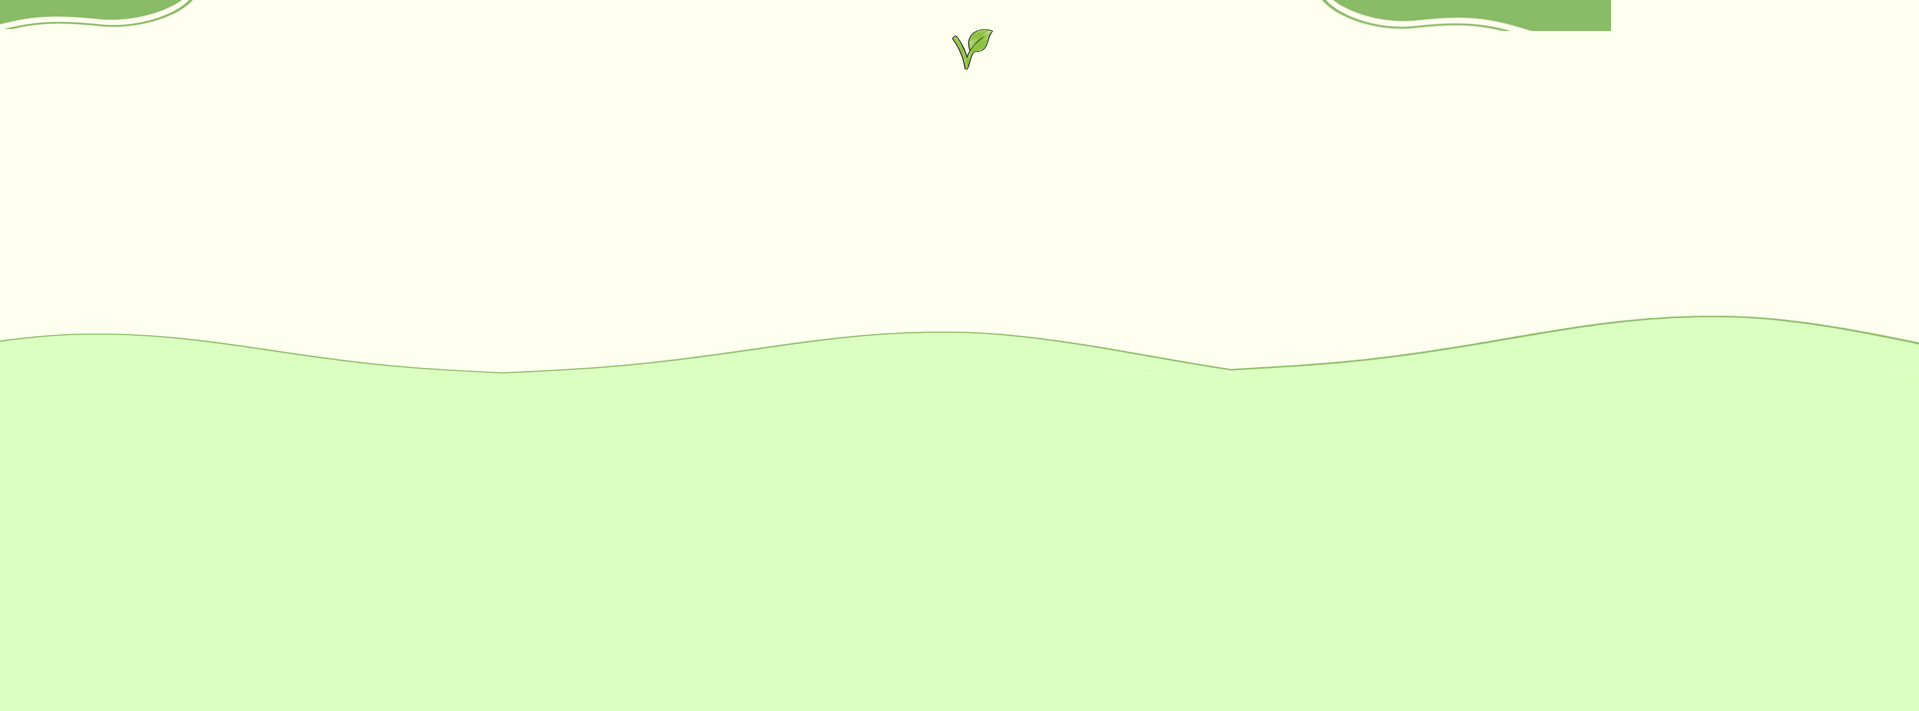
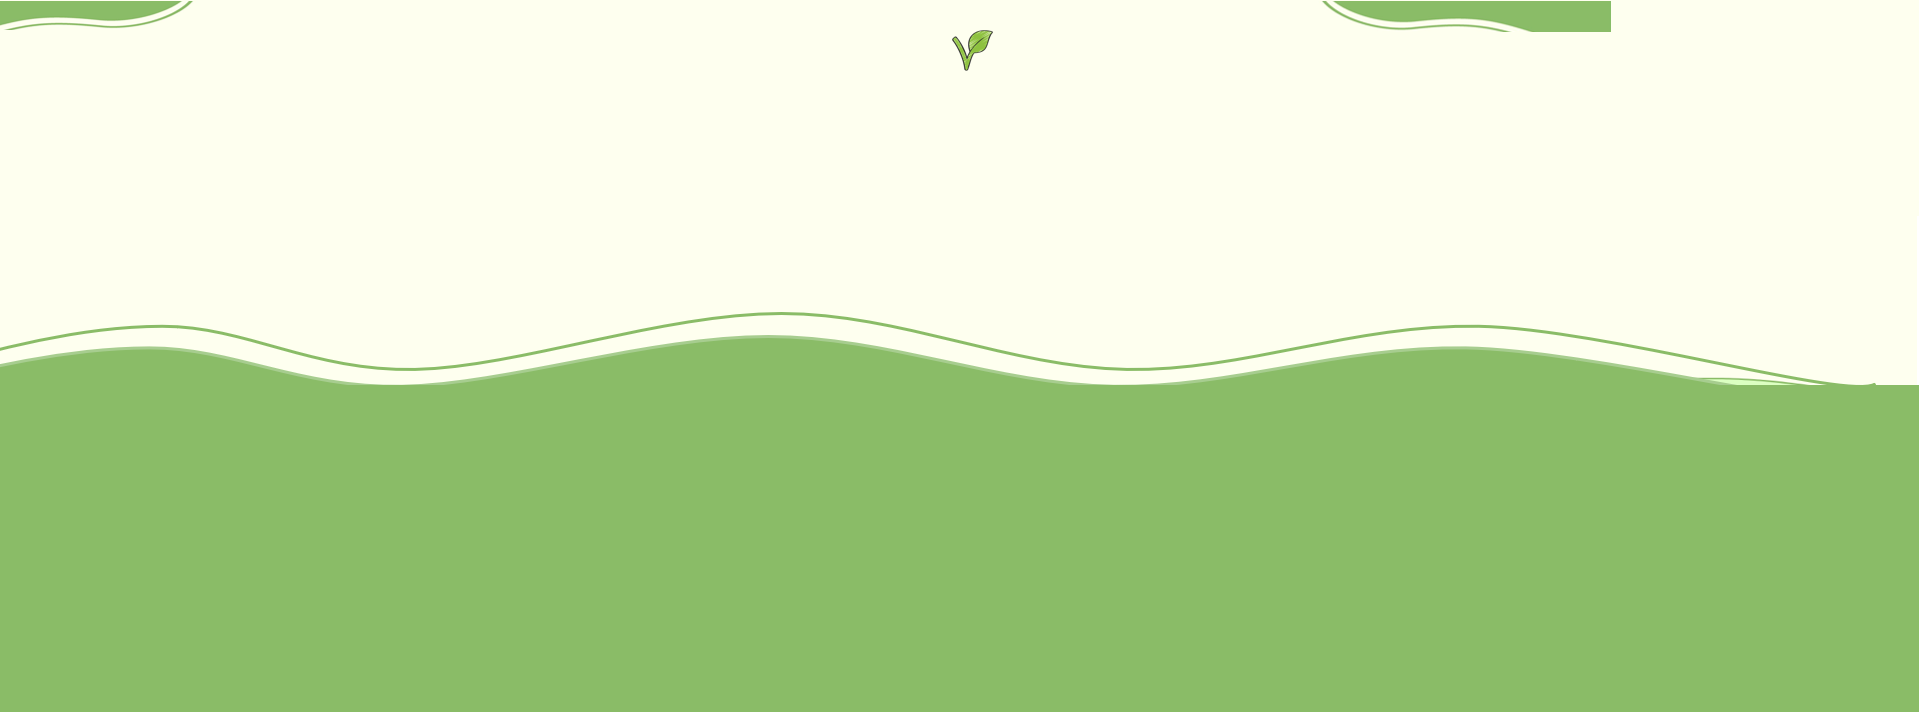
Beneficios à saúde

diff --git a/VeggieMania/web-data-viz/public/index.html b/VeggieMania/web-data-viz/public/index.html
@@ -179,10 +179,10 @@
       </div>
       <div class="caixah4">
         <div class="caixa41">
-          <div class="tituloc1">
-            <label>- Diminui riscos de câncer</label>
+          <div class="titulocc">
+            <label>Diminui riscos de câncer</label>
             <div class="imgc1">
-              <img src="css/img/fita.png" width="65px"></label>
+              <img src="css/img/escudo.png" width="53px"></label>
             </div>
           </div>
           <p>
@@ -195,10 +195,10 @@
             de próstata.</p>
         </div>
         <div class="caixa42">
-          <div class="tituloc2">
-            <label>- Reduz o risco de doenças cardiovasculares</label>
-            <div class="imgc2">
-              <img src="css/img/batimento-cardiaco.png" width="60px"></label>
+          <div class="tituloc">
+            <label>Reduz o risco de doenças cardiovasculares</label>
+            <div class="imgc1">
+              <img src="css/img/batimento-cardiaco.png" width="53px"></label>
             </div>
           </div>
           <p>
@@ -212,6 +212,55 @@
     </div>
   </div>
   <div class="saude2">
+    <div class="caixasaude2">
+      <div class="caixa5">
+        <div class="caixa51">
+          <div class="tituloc">
+            <label>Reduz o risco de diabetes tipo 2</label>
+            <div class="imgc1">
+              <img src="css/img/cubo-de-acucar.png" width="53px"></label>
+            </div>
+          </div>
+          <p>
+            Uma alimentação baseada em produtos de origem vegetal pode reduzir a glicemia e melhorar o perfil lipídico. Prevê-se que esse tipo de dieta reduza a incidência de diabetes em até 50%. 
+            O risco foi aumentado em 21% para os indivíduos que consumiam mais carne vermelha e 41% para os que consumiam mais carnes processadas.
+          </p>
+
+        </div>
+
+      </div>
+      <div class="caixa6">
+        <div class="caixa61">
+          <div class="tituloc">
+            <label> Redução de Colesterol LDL</label>
+            <div class="imgc1">
+              <img src="css/img/colesterol.png" width="53px"></label>
+            </div>
+          </div>
+          <p>
+        
+          Uma dieta vegetariana bem planejada oferece uma série de benefícios, sendo naturalmente mais rica em fibras e apresentando um baixo teor de gordura saturada e colesterol. Estudos demonstram que a adoção de uma dieta vegetariana ou vegana pode resultar em uma redução de até 35% no colesterol LDL.
+          </p>
+          
+        </div>
+      </div>
+      <div class="caixa7">
+        <div class="caixa71">
+          <div class="tituloc">
+            <label>Contribui para o combate à obesidade</label>
+            <div class="imgc1">
+              <img src="css/img/escala-de-peso (1).png" width="57px"></label>
+            </div>
+          </div>
+          <p>
+            A dieta vegetariana, por ser composta por alimentos menos gordurosos, é eficaz no controle de doenças como hipertensão arterial e hipercolesterolemia. Isso traz benefícios diretos como: perda de peso, perfil metabólico e tratamento da obesidade, regulando o Índice de Massa Corporal (IMC) e prevenindo o surgimento outras doenças.
+
+          </p>
+
+        </div>
+        </div>
+      </div>
+    </div>
 
   </div>
 

diff --git a/VeggieMania/web-data-viz/public/css/estilo inicio.css b/VeggieMania/web-data-viz/public/css/estilo inicio.css
@@ -433,6 +433,7 @@ button {
   width: 100%;
   display: flex;
   flex-direction: column;
+  color: #e5e5e5;
 }
 
 .caixah1 {
@@ -442,6 +443,7 @@ button {
   font-size: 29px;
   font-weight: bold;
   margin-bottom: 1%;
+  color: #000000;
 }
 
 .caixah12 {
@@ -453,6 +455,7 @@ button {
   align-items: center;
   font-size: 16px;
   font-weight: bold;
+  color: #000000;
 }
 
 .caixah2 {
@@ -469,6 +472,7 @@ button {
   display: flex;
   align-items: center;
   justify-content: center;
+  color: #000000;
 }
 
 .text2 {
@@ -510,20 +514,9 @@ button {
   display: flex;
   flex-direction: column;
   align-items: center;
-  justify-content: center;
-  font-size: 18px;
+  font-size: 16px;
 }
 
-.tituloc1{
-  height: 12%;
-  width: 100%;
-  display: flex;
-  flex-direction: row;
-  align-items: center;
-  justify-content: center;
-  font-size: 21px;
-  font-weight: bold;
-}
 .imgc1{
   height: 50%;
   width: 10%;
@@ -539,10 +532,76 @@ button {
   width: 47%;
   display: flex;
   flex-direction: column;
-  font-size: 18px;
+  align-items: center;
+  justify-content: center;
+  font-size: 16px;
 }
 
-.caixa42 .tituloc2{
+
+.saude2 {
+  height: 100vh;
+  background-color: #8ABC67;
+  color: #e5e5e5;
+}
+
+.caixasaude2 {
+  height: 100%;
+  width: 100%;
+  display: flex;
+  flex-direction: row;
+  justify-content: center;
+}
+
+.caixa5 {
+  height: 60%;
+  width: 33%;
+  display: flex;
+  flex-direction: column;
+  justify-content: center;
+  align-items: center;
+}
+
+.caixa6 {
+  height: 60%;
+  width: 33%;
+  display: flex;
+  flex-direction: column;
+  justify-content: center;
+  align-items: center;
+}
+
+.caixa7 {
+  height: 60%;
+  width: 33%;
+  display: flex;
+  flex-direction: column;
+  justify-content: center;
+  align-items: center;
+}
+
+.caixa51 {
+  height: 90%;
+  width: 95%;
+  display: flex;
+  flex-direction: column;
+  font-size: 16px;
+}
+
+.caixa61 {
+  height: 90%;
+  width: 95%;
+  display: flex;
+  flex-direction: column;
+}
+
+.caixa71 {
+  height: 90%;
+  width: 95%;
+  display: flex;
+  flex-direction: column;
+}
+
+.tituloc{
   height: 12%;
   width: 100%;
   display: flex;
@@ -553,18 +612,16 @@ button {
   font-weight: bold;
 }
 
-.imgc2{
-  height: 50%;
-  width: 10%;
-  display: flex;;
+.titulocc{
+  height: 12%;
+  width: 100%;
+  display: flex;
+  flex-direction: row;
   align-items: center;
-  margin-left: 1%;
-}
-
-
-.saude2 {
-  height: 100vh;
-  background-color: #DBFFC1;
+  justify-content: center;
+  font-size: 21px;
+  font-weight: bold;
+  margin-top: 6%;
 }
 
 
